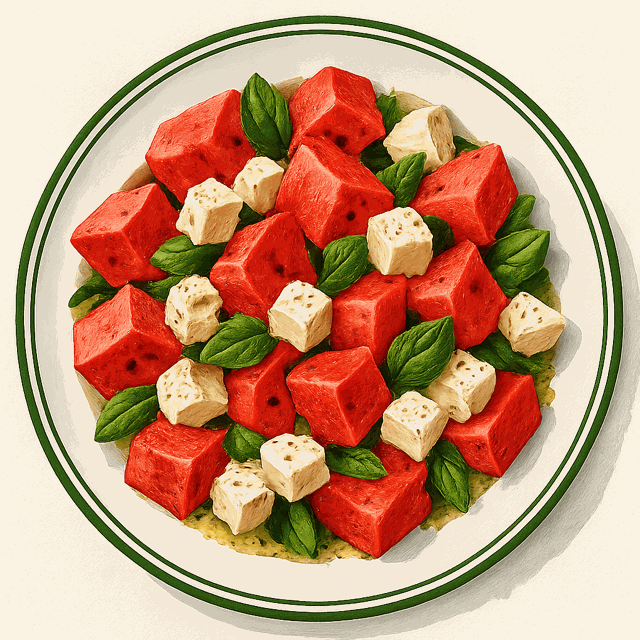
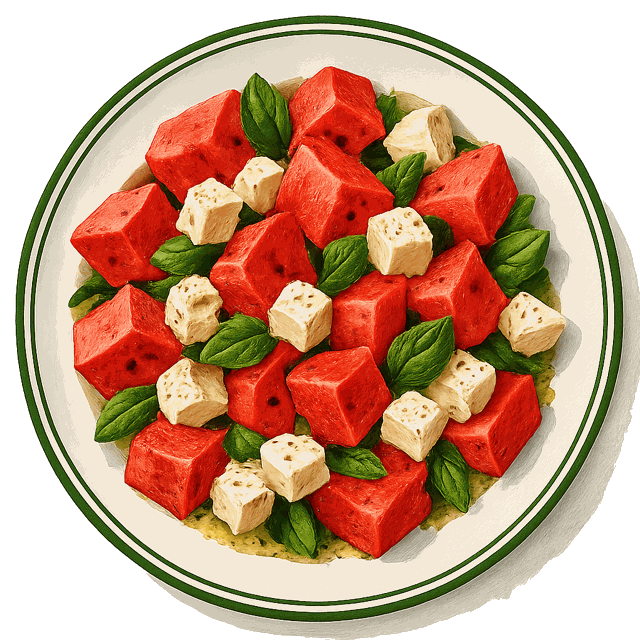
Plate art: clear opaque background squares + guard transparency
Three plates (spinach-feta-egg-muffins, thai-red-curry, watermelon-feta-salad)
shipped with an opaque cream/grey background square instead of a transparent one,
so they stood out from the page. Flood-filled the background to transparent (and
regenerated thai-red-curry, whose textured bg resisted the fill). The generator now
runs the same transparency normalization on every new plate, and a new
PlateArtCoverageTests.testPlateArtHasTransparentBackground (via
PlateRenderLibrary.bundledArtMaxCornerAlpha) fails if any plate has an opaque
background. All 197 plates now sit transparently.

Changed region(s): [[0.0, 0.0, 1.0, 1.0], [0.5625, 0.5938, 1.0, 1.0]]

diff --git a/PantryChef/Services/PlateRenderLibrary.swift b/PantryChef/Services/PlateRenderLibrary.swift
@@ -171,6 +171,25 @@ final class PlateRenderLibrary {
     /// never fall back to the emoji plate or a live paint in production.
     nonisolated static func hasBundledArt(for name: String) -> Bool { loadBundled(slug(name)) != nil }
 
+    /// The greatest alpha across a bundled plate's four corners — used by the test that
+    /// guards against an opaque background square (plates must sit transparently on the
+    /// page). Nil when there's no bundled art.
+    nonisolated static func bundledArtMaxCornerAlpha(for name: String) -> Int? {
+        guard let cg = loadBundled(slug(name))?.cgImage else { return nil }
+        let w = cg.width, h = cg.height
+        guard w > 2, h > 2 else { return nil }
+        var maxA = 0
+        for (x, y) in [(1, 1), (w - 2, 1), (1, h - 2), (w - 2, h - 2)] {
+            var px: [UInt8] = [0, 0, 0, 0]
+            let ctx = CGContext(data: &px, width: 1, height: 1, bitsPerComponent: 8, bytesPerRow: 4,
+                                space: CGColorSpaceCreateDeviceRGB(),
+                                bitmapInfo: CGImageAlphaInfo.premultipliedLast.rawValue)
+            ctx?.draw(cg, in: CGRect(x: -x, y: -y, width: w, height: h))
+            maxA = max(maxA, Int(px[3]))
+        }
+        return maxA
+    }
+
     private nonisolated static var cacheDirectory: URL {
         let base = FileManager.default.urls(for: .applicationSupportDirectory, in: .userDomainMask)[0]
         return base.appendingPathComponent("PlateRenders", isDirectory: true)

diff --git a/PantryChefTests/PlateArtCoverageTests.swift b/PantryChefTests/PlateArtCoverageTests.swift
@@ -20,4 +20,16 @@ final class PlateArtCoverageTests: XCTestCase {
                       "\(missing.count) seed dish(es) ship without bundled plate art:\n  "
                         + missing.joined(separator: "\n  "))
     }
+
+    /// Every plate must sit transparently on the page — no opaque background square
+    /// (a generation glitch we hit on a few). Corners should be effectively clear.
+    func testPlateArtHasTransparentBackground() {
+        let opaque = RecipeSeed.all.compactMap { dish -> String? in
+            guard let a = PlateRenderLibrary.bundledArtMaxCornerAlpha(for: dish.name), a > 40 else { return nil }
+            return "\(dish.name) (corner alpha \(a))"
+        }
+        XCTAssertTrue(opaque.isEmpty,
+                      "\(opaque.count) plate(s) have an opaque background square:\n  "
+                        + opaque.joined(separator: "\n  "))
+    }
 }

diff --git a/tools/generate_plate_art.py b/tools/generate_plate_art.py
@@ -69,7 +69,22 @@ def gen_one(name, key):
     open(out, "wb").write(png)
     subprocess.run(["sips", "-Z", str(MAXSIDE), out], check=True,
                    stdout=subprocess.DEVNULL, stderr=subprocess.DEVNULL)
+    normalize_transparency(out)
     return (s, "ok")
+
+def normalize_transparency(path):
+    """gpt-image-1 occasionally paints an opaque background square despite
+    background=transparent; flood-fill it away from the corners so every plate sits
+    transparently on the page. (PlateArtCoverageTests guards this too.)"""
+    from PIL import Image, ImageDraw
+    im = Image.open(path).convert("RGBA")
+    w, h = im.size
+    corners = [(0, 0), (w - 1, 0), (0, h - 1), (w - 1, h - 1)]
+    if all(im.getpixel(c)[3] <= 40 for c in corners):
+        return
+    for c in corners:
+        ImageDraw.floodfill(im, c, (0, 0, 0, 0), thresh=80)
+    im.save(path)
 
 def main():
     limit = workers = None
